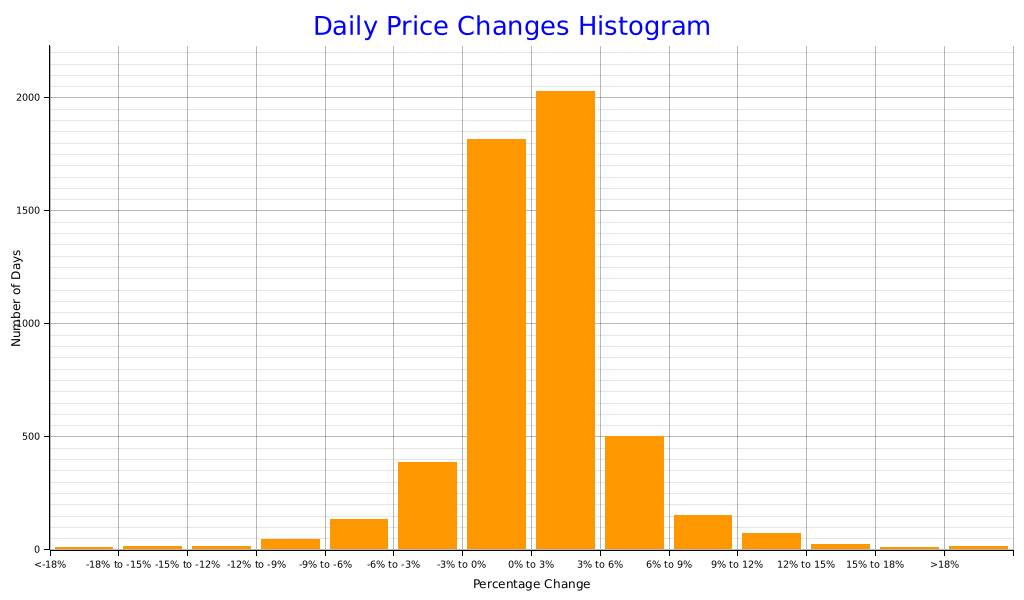
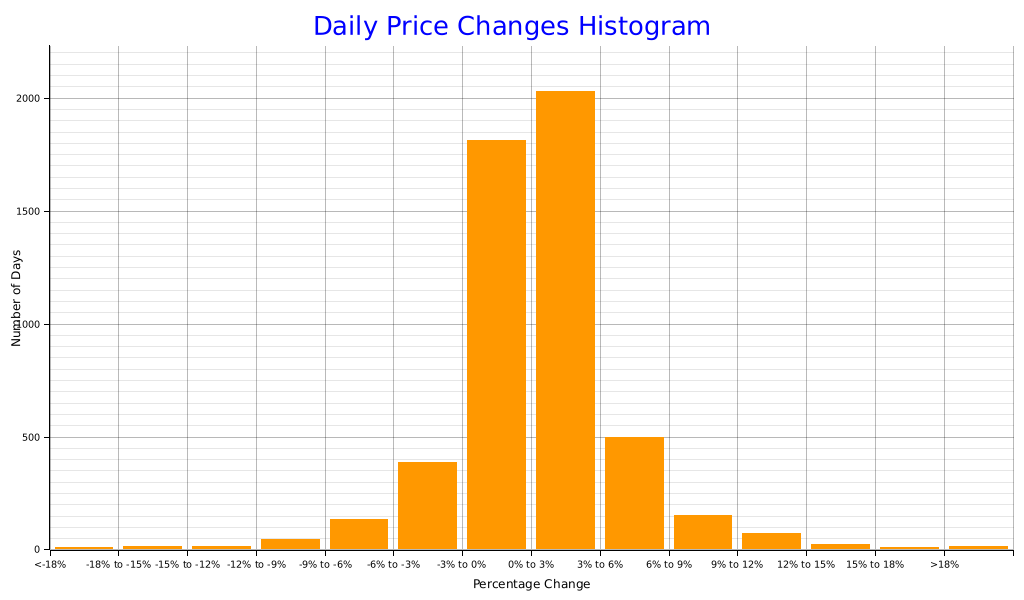
deploy: 37367be3a55653cfc7c730fffc92803847cbb72f

diff --git a/index.html b/index.html
@@ -34,7 +34,7 @@
           <td>97,860.60</td>
           <td>60,074.20</td>
           <td></td>
-          <td>3,588,185,915,392.0</td>
+          <td>3,608,792,530,944.0</td>
         </tr>
         <tr>
           <td class='yearly-summary-year'>2025</td>
@@ -198,7 +198,7 @@
         </tr>
         <tr>
           <td>0% to 3%</td>
-          <td>2027</td>
+          <td>2028</td>
         </tr>
         <tr>
           <td>3% to 6%</td>
@@ -226,7 +226,7 @@
         </tr>
         <tr class='histogram-footer'>
           <td>Total Days</td>
-          <td>5216</td>
+          <td>5217</td>
         </tr>
       </tbody>
     </table>
@@ -235,7 +235,7 @@
     <br><br>
     <a href='https://github.com/bitcoin-tools/btracker'>Link to the report codebase</a>
     <br><br>
-    This report was last updated at 2026-03-22 06:34:07.626442781 UTC.
+    This report was last updated at 2026-03-22 07:28:45.950528295 UTC.
     <br><br>
     <div class='scrollable-table'>
       <table>
@@ -259,12 +259,24 @@
             <td>68,903.21</td>
             <td>69,448.19</td>
             <td>68,452.42</td>
-            <td>69,203.41</td>
-            <td class='wma-column'>59,018.80</td>
-            <td>28.41 (0.04 %)</td>
-            <td>39,771.18 (135.1 %)</td>
+            <td>69,170.83</td>
+            <td class='wma-column'>59,046.19</td>
+            <td>27.75 (0.04 %)</td>
+            <td>38,847.11 (128.1 %)</td>
             <td>995.76 (1.4 %)</td>
-            <td>-1,319.17 (-1.8 %)</td>
+            <td>459.31 (0.6 %)</td>
+          </tr>
+          <tr>
+            <td>2026-03-21</td>
+            <td>70,522.46</td>
+            <td>71,051.27</td>
+            <td>68,602.91</td>
+            <td>68,711.52</td>
+            <td class='wma-column'>59,018.44</td>
+            <td>28.05 (0.04 %)</td>
+            <td>39,279.29 (133.4 %)</td>
+            <td>2,448.35 (3.5 %)</td>
+            <td>-1,811.06 (-2.5 %)</td>
           </tr>
           <tr>
             <td>2026-03-20</td>
